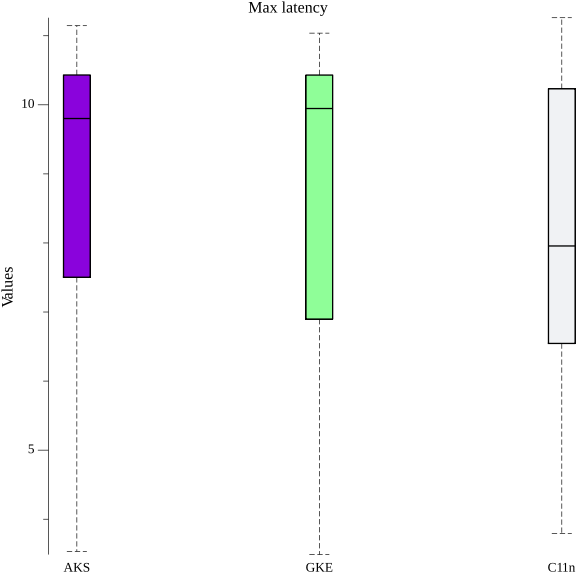
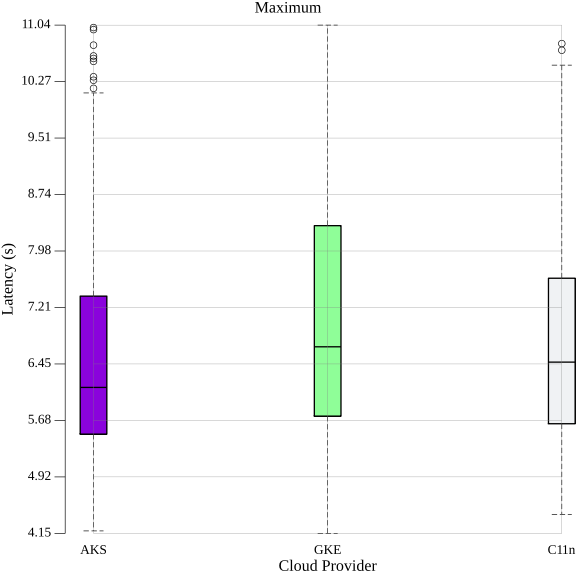
Update plots
* add grid
* Clarify labeling
* More ticks on y axis

diff --git a/vegeta-parser/plot.go b/vegeta-parser/plot.go
@@ -13,34 +13,37 @@ func plotData(dataA, dataB, dataC []float64, title, filename string) error {
 	p := plot.New()
 
 	p.Title.Text = title
-	p.Y.Label.Text = "Values"
+	p.Y.Label.Text = "Latency (s)"
+	p.X.Label.Text = "Cloud Provider"
 
 	// Make a box plot of our data.
-	boxMeanA, err := plotter.NewBoxPlot(vg.Length(20), 0, plotter.Values(dataA))
+	boxA, err := plotter.NewBoxPlot(vg.Length(20), 0, plotter.Values(dataA))
 	if err != nil {
 		return fmt.Errorf("Could not create boxplot: %v", err)
 	}
-	p.Add(boxMeanA)
+	p.Add(boxA)
 
-	boxMeanB, err := plotter.NewBoxPlot(vg.Length(20), 1, plotter.Values(dataB))
+	boxB, err := plotter.NewBoxPlot(vg.Length(20), 1, plotter.Values(dataB))
 	if err != nil {
 		return fmt.Errorf("Could not create boxplot: %v", err)
 	}
-	p.Add(boxMeanB)
+	p.Add(boxB)
 
-	boxMeanC, err := plotter.NewBoxPlot(vg.Length(20), 2, plotter.Values(dataC))
+	boxC, err := plotter.NewBoxPlot(vg.Length(20), 2, plotter.Values(dataC))
 	if err != nil {
 		return fmt.Errorf("Could not create boxplot: %v", err)
 	}
-	p.Add(boxMeanC)
+	p.Add(boxC)
 
-	// p.Add(plotter.NewGrid())
+	p.Add(plotter.NewGrid())
 
-	boxMeanA.FillColor = color.RGBA{139, 4, 221, 1}
-	boxMeanB.FillColor = color.RGBA{144, 255, 153, 1}
-	boxMeanC.FillColor = color.RGBA{241, 243, 245, 1}
+	boxA.FillColor = color.RGBA{139, 4, 221, 1}
+	boxB.FillColor = color.RGBA{144, 255, 153, 1}
+	boxC.FillColor = color.RGBA{241, 243, 245, 1}
 
 	p.NominalX("AKS", "GKE", "C11n")
+
+	p.Y.Tick.Marker = myTicker{}
 
 	// Save the plot to a PNG file.
 	if err := p.Save(6*vg.Inch, 6*vg.Inch, fmt.Sprintf("%s/%s.png", PLOT_PREFIX, filename)); err != nil {
@@ -48,4 +51,26 @@ func plotData(dataA, dataB, dataC []float64, title, filename string) error {
 	}
 
 	return nil
+}
+
+type myTicker struct{}
+
+func (myTicker) Ticks(min, max float64) []plot.Tick {
+	values := equallySpacedValues(min, max, 10)
+	ticks := []plot.Tick{}
+	for _, v := range values {
+		ticks = append(ticks, plot.Tick{Value: v, Label: fmt.Sprintf("%.2f", v)})
+	}
+
+	return ticks
+}
+
+func equallySpacedValues(min, max float64, numValues int) []float64 {
+	values := make([]float64, numValues)
+
+	for i := 0; i < numValues; i++ {
+		values[i] = min + (float64(i)/float64(numValues-1))*(max-min)
+	}
+
+	return values
 }

diff --git a/vegeta-parser/main.go b/vegeta-parser/main.go
@@ -15,7 +15,7 @@ const (
 	AKS_DATA    = "../data/1300w/5replicas/aks"
 	GKE_DATA    = "../data/1300w/5replicas/gke"
 	C11N_DATA   = "../data/1300w/5replicas/c11n"
-	PLOT_PREFIX = "boxplots"
+	PLOT_PREFIX = "../boxplots"
 )
 
 func main() {
@@ -68,10 +68,18 @@ func run() error {
 	fmt.Println("========== GKE vs C11n ==========")
 	fmt.Print(getDifference(gkeRun, c11nRun))
 
-	plotData(aksRun.MeanRaw, gkeRun.MeanRaw, c11nRun.MeanRaw, "Mean latency", "mean")
-	plotData(aksRun.P99Raw, gkeRun.P99Raw, c11nRun.P99Raw, "P99 latency", "p99")
-	plotData(aksRun.MaxRaw, gkeRun.MaxRaw, c11nRun.MaxRaw, "Max latency", "max")
-	plotData(aksRun.MinRaw, gkeRun.MinRaw, c11nRun.MinRaw, "Min latency", "min")
+	if err := plotData(aksRun.MeanRaw, gkeRun.MeanRaw, c11nRun.MeanRaw, "Mean", "mean"); err != nil {
+		return fmt.Errorf("plotting mean: %w", err)
+	}
+	if err := plotData(aksRun.P99Raw, gkeRun.P99Raw, c11nRun.P99Raw, "99th Percentile", "p99"); err != nil {
+		return fmt.Errorf("plotting p99: %w", err)
+	}
+	if err := plotData(aksRun.MaxRaw, gkeRun.MaxRaw, c11nRun.MaxRaw, "Maximum", "max"); err != nil {
+		return fmt.Errorf("plotting max: %w", err)
+	}
+	if err := plotData(aksRun.MinRaw, gkeRun.MinRaw, c11nRun.MinRaw, "Minimum", "min"); err != nil {
+		return fmt.Errorf("plotting min: %w", err)
+	}
 
 	return nil
 }
